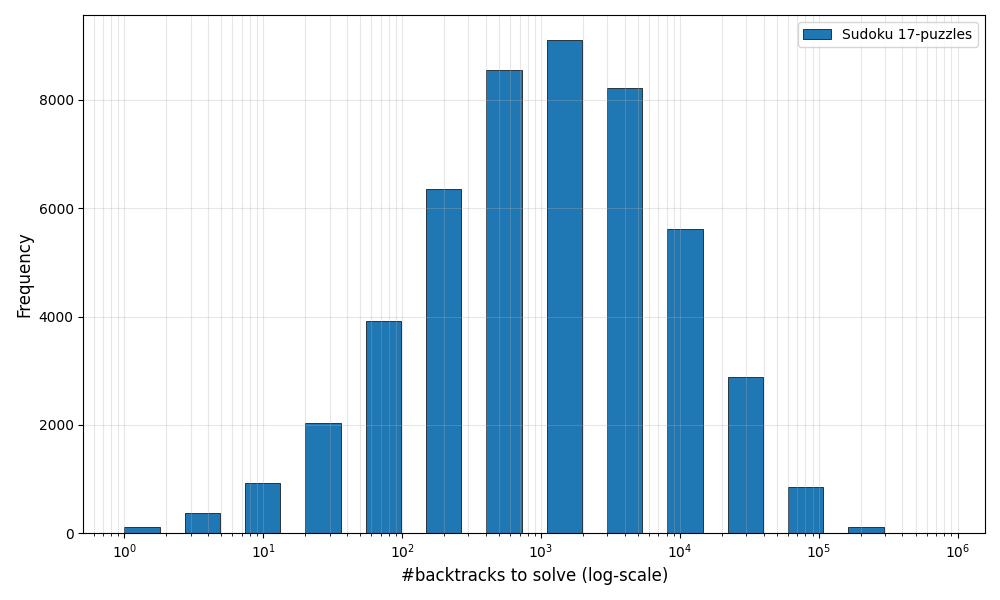
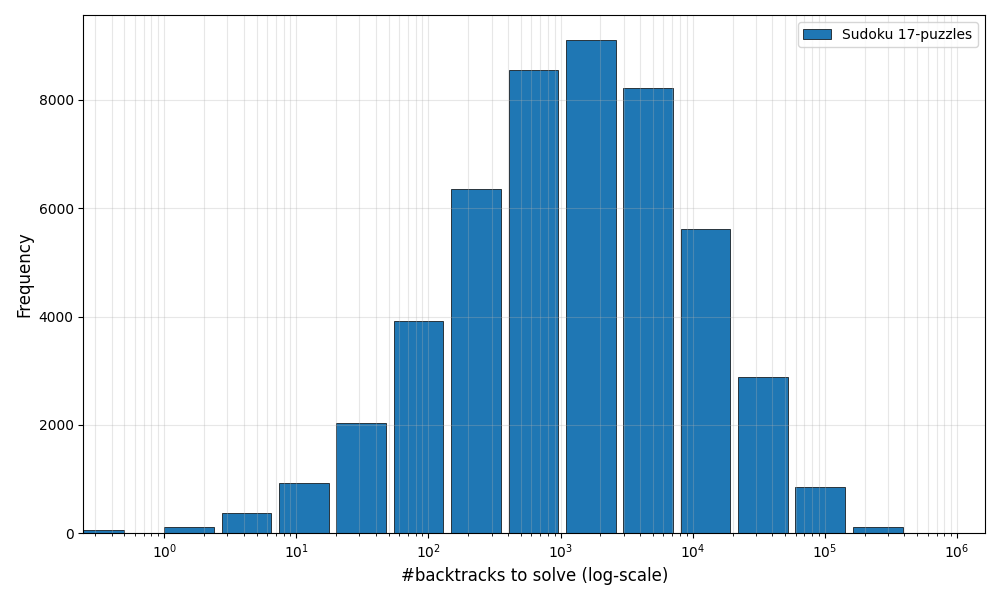
Fix bar width calculation for logarithmic histogram

Changed region(s): [[0.093, 0.06, 0.899, 0.93], [0.93, 0.9, 0.961, 0.93]]

diff --git a/analysis/plot_histogram.py b/analysis/plot_histogram.py
@@ -29,8 +29,22 @@ def plot_histogram(x_values, y_values, output_file='histogram.png'):
     """Create and save histogram plot."""
     plt.figure(figsize=(10, 6))
     
+    # Calculate widths for logarithmic scale
+    # For each bar, use 80% of the spacing to the next value (or use the value itself for the last bar)
+    widths = []
+    for i in range(len(x_values)):
+        if x_values[i] == 0:
+            # For zero, use a small fixed width
+            widths.append(0.5)
+        elif i < len(x_values) - 1:
+            # Use 80% of spacing to next point
+            widths.append((x_values[i+1] - x_values[i]) * 0.8)
+        else:
+            # For last bar, use the value itself as width
+            widths.append(x_values[i] * 0.8)
+    
     # Create bar plot
-    plt.bar(x_values, y_values, width=[x * 0.8 for x in x_values], align='edge', 
+    plt.bar(x_values, y_values, width=widths, align='edge', 
             edgecolor='black', linewidth=0.5, label='Sudoku 17-puzzles')
     
     # Set logarithmic scale for x-axis
